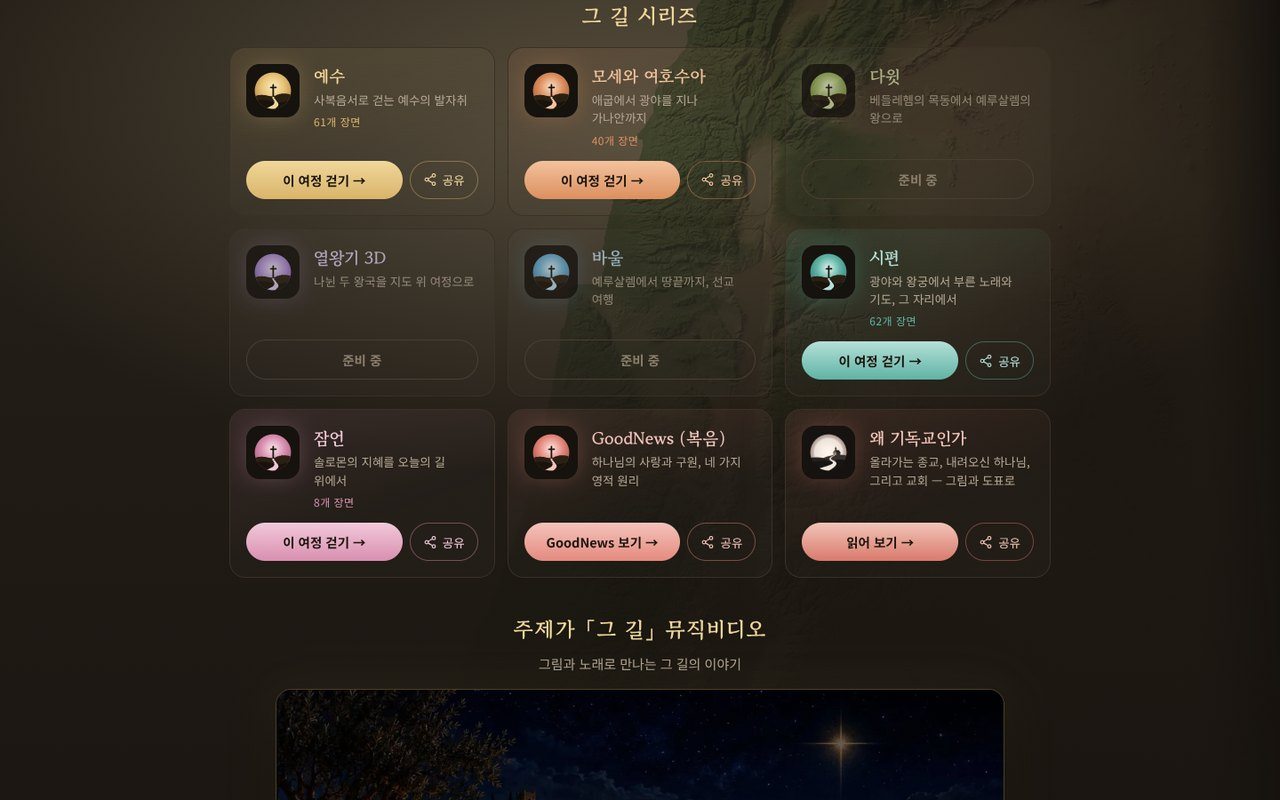
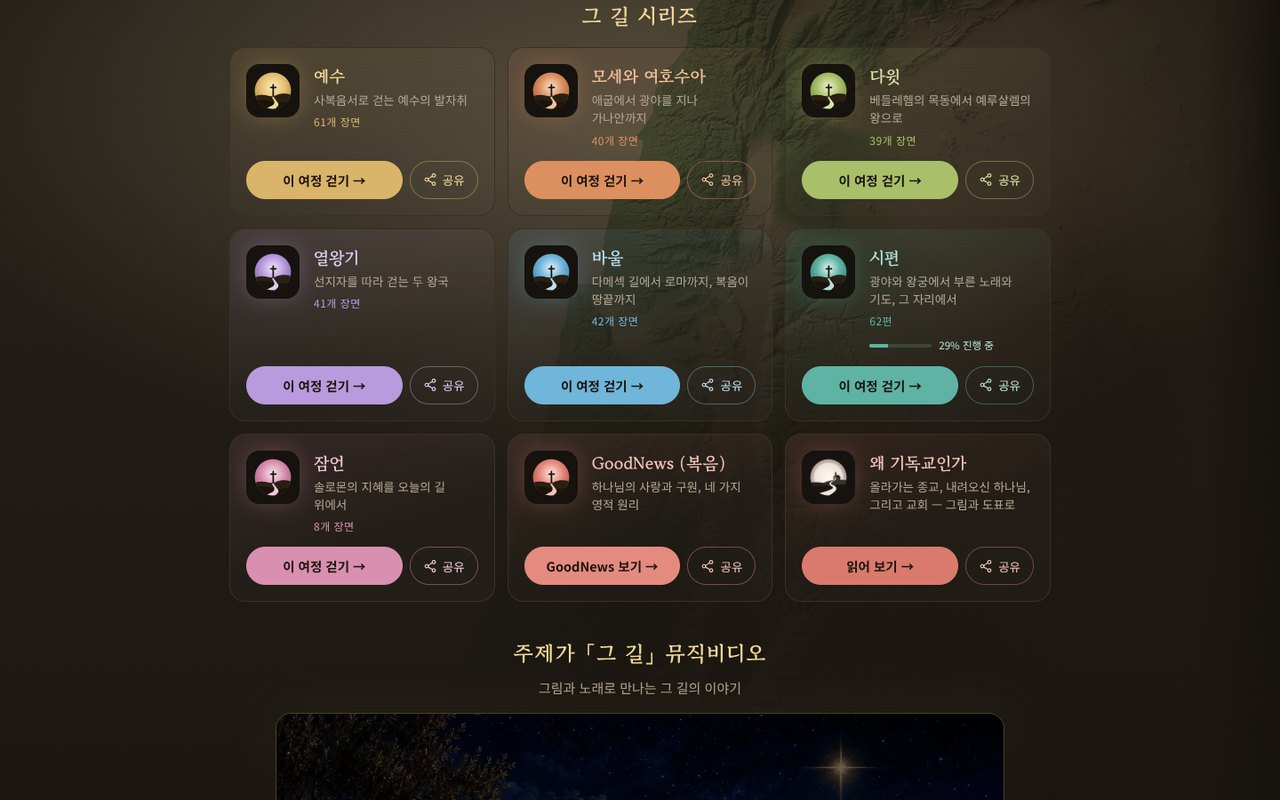
그 길 시리즈 갱신: 다윗(39)·열왕기(41)·바울(42, 서신 13편) 공개, 여덟 여정 297장면, 시대별 영역·바울 편지 탭 소개, 새 화면
Claude-Session: https://claude.ai/code/session_01ShCSMFwDxhqcMjTsEDc35E

diff --git a/public/apps/theway/index.html b/public/apps/theway/index.html
@@ -4,17 +4,17 @@
 <meta charset="UTF-8">
 <meta name="viewport" content="width=device-width,initial-scale=1">
 <title>그 길 — 성경을 걷는 3D 지도 여정 — 3D 성경 지도 여정 시리즈 | SSSOFT</title>
-<meta name="description" content="지도 위에서 걷는 성경의 길. 예수의 발자취, 모세와 여호수아, 시편, 잠언, GoodNews(복음) 다섯 여정과 '왜 기독교인가' 단원이 나왔습니다. 그 길은 성경의 이야기를 일어난 때와 장소의 순서로 엮어, 지도 위를 걸으며 만나게 하는 여정 시리즈입니다. 장면을 옮길…">
+<meta name="description" content="지도 위에서 걷는 성경의 길. 예수, 모세와 여호수아, 다윗, 열왕기, 바울, 시편, 잠언, GoodNews(복음) 여덟 여정과 '왜 기독교인가' 단원을 걷습니다. 그 길은 성경의 이야기를 일어난 때와 장소의 순서로 엮어, 지도 위를 걸으며 만나게 하는 여정 시리즈입니다.…">
 <link rel="canonical" href="https://sssoft-idea.web.app/apps/theway/">
 <meta property="og:type" content="website">
 <meta property="og:site_name" content="SSSOFT">
-<meta property="og:title" content="그 길 — 성경을 걷는 3D 지도 여정 — 지도 위에서 걷는 성경의 길. 예수의 발자취, 모세와 여호수아, 시편, 잠언, GoodNews(복음) 다섯 여정과 '왜 기독교인가' 단원이 나왔습니다">
-<meta property="og:description" content="지도 위에서 걷는 성경의 길. 예수의 발자취, 모세와 여호수아, 시편, 잠언, GoodNews(복음) 다섯 여정과 '왜 기독교인가' 단원이 나왔습니다. 그 길은 성경의 이야기를 일어난 때와 장소의 순서로 엮어, 지도 위를 걸으며 만나게 하는 여정 시리즈입니다. 장면을 옮길…">
+<meta property="og:title" content="그 길 — 성경을 걷는 3D 지도 여정 — 지도 위에서 걷는 성경의 길. 예수, 모세와 여호수아, 다윗, 열왕기, 바울, 시편, 잠언, GoodNews(복음) 여덟 여정과 '왜 기독교인가' 단원을 걷습니다">
+<meta property="og:description" content="지도 위에서 걷는 성경의 길. 예수, 모세와 여호수아, 다윗, 열왕기, 바울, 시편, 잠언, GoodNews(복음) 여덟 여정과 '왜 기독교인가' 단원을 걷습니다. 그 길은 성경의 이야기를 일어난 때와 장소의 순서로 엮어, 지도 위를 걸으며 만나게 하는 여정 시리즈입니다.…">
 <meta property="og:url" content="https://sssoft-idea.web.app/apps/theway/">
 <meta property="og:image" content="https://sssoft-idea.web.app/shots/theway-d.png">
 <meta property="og:locale" content="ko_KR">
 <meta name="twitter:card" content="summary_large_image">
-<script type="application/ld+json">{"@context":"https://schema.org","@graph":[{"@type":"SoftwareApplication","@id":"https://sssoft-idea.web.app/apps/theway/#app","name":"그 길 — 성경을 걷는 3D 지도 여정","alternateName":"THE WAY · SERIES","description":"그 길은 성경의 이야기를 일어난 때와 장소의 순서로 엮어, 지도 위를 걸으며 만나게 하는 여정 시리즈입니다. 장면을 옮길 때마다 실제 지형 위를 걸어가며 거리와 걸린 날수를 보여 주고, 도착하면 그 자리에 미니어처 3D 무대가 서서 낭독에 맞춰 인물이 움직입니다. 첫 여정 '예수의 발자취'는 사복음서를 엮어 탄생부터 승천까지 61개 장면을, '모세와 여호수아'는 애굽의 종살이에서 약속의 땅까지 40개 장면을 걷습니다. '잠언'은 지도 대신 솔로몬 때 예루살렘의 거리를 사람 눈높이로 걸으며 아버지가 아들에게 들려주는 하루 8장면과 '하루 한 장 31일 잠언'을, '시편'은 노래가 태어난 자리를 따라 62편을 걸으며 가사를 크게 띄우고 노래를 한 편씩 더해 가는 중입니다. 처음 만나는 분께는 네 장면으로 듣는 'GoodNews(복음)'와, 여러 종교를 견주며 그림과 도표로 풀어 쓴 '왜 기독교인가' 단원을 둡니다. 모두 같은 엔진으로 만들어 가입 없이 바로 쓰고 대부분 8개 언어로 볼 수 있으며(시편은 한국어), 다윗·열왕기·바울 여정을 이어서 준비하고 있습니다.","url":"https://the-way-jesus.web.app","image":"https://sssoft-idea.web.app/shots/theway-d.png","applicationCategory":"LifestyleApplication","operatingSystem":"Web","inLanguage":"ko","author":{"@id":"https://sssoft-idea.web.app/#org"},"publisher":{"@id":"https://sssoft-idea.web.app/#org"}},{"@type":"WebPage","@id":"https://sssoft-idea.web.app/apps/theway/","url":"https://sssoft-idea.web.app/apps/theway/","name":"그 길 — 성경을 걷는 3D 지도 여정 — 3D 성경 지도 여정 시리즈","description":"지도 위에서 걷는 성경의 길. 예수의 발자취, 모세와 여호수아, 시편, 잠언, GoodNews(복음) 다섯 여정과 '왜 기독교인가' 단원이 나왔습니다. 그 길은 성경의 이야기를 일어난 때와 장소의 순서로 엮어, 지도 위를 걸으며 만나게 하는 여정 시리즈입니다. 장면을 옮길…","inLanguage":"ko","isPartOf":{"@id":"https://sssoft-idea.web.app/#site"},"about":{"@id":"https://sssoft-idea.web.app/apps/theway/#app"},"primaryImageOfPage":"https://sssoft-idea.web.app/shots/theway-d.png","breadcrumb":{"@type":"BreadcrumbList","itemListElement":[{"@type":"ListItem","position":1,"name":"SSSOFT","item":"https://sssoft-idea.web.app/"},{"@type":"ListItem","position":2,"name":"프로젝트","item":"https://sssoft-idea.web.app/#work"},{"@type":"ListItem","position":3,"name":"그 길 — 성경을 걷는 3D 지도 여정","item":"https://sssoft-idea.web.app/apps/theway/"}]}},{"@type":"Organization","@id":"https://sssoft-idea.web.app/#org","name":"SSSOFT","url":"https://sssoft-idea.web.app/","logo":"https://sssoft-idea.web.app/logo-mark.svg","email":"sssoft1004@gmail.com"}]}</script>
+<script type="application/ld+json">{"@context":"https://schema.org","@graph":[{"@type":"SoftwareApplication","@id":"https://sssoft-idea.web.app/apps/theway/#app","name":"그 길 — 성경을 걷는 3D 지도 여정","alternateName":"THE WAY · SERIES","description":"그 길은 성경의 이야기를 일어난 때와 장소의 순서로 엮어, 지도 위를 걸으며 만나게 하는 여정 시리즈입니다. 장면을 옮길 때마다 실제 지형 위를 걸어가며 거리와 걸린 날수를 보여 주고, 도착하면 그 자리에 미니어처 3D 무대가 서서 낭독에 맞춰 인물이 움직입니다. 지도에는 시대마다 누가 그 땅을 다스렸는지 영역이 옅게 깔리고 장면이 넘어가면 함께 바뀝니다. 사복음서로 걷는 '예수'(61장면), 애굽에서 약속의 땅까지 '모세와 여호수아'(40), 베들레헴의 목동에서 왕이 된 '다윗'(39), 선지자를 따라 걷는 두 왕국 '열왕기'(41), 다메섹 길에서 로마까지 서신 13편을 잇는 '바울'(42)이 지도 위 여정입니다. '시편'은 노래가 태어난 자리를 따라 62편을 걸으며 가사를 크게 띄우고 노래를 한 편씩 더해 가는 중이고, '잠언'은 솔로몬 때 예루살렘의 거리를 사람 눈높이로 걷는 하루 8장면과 '하루 한 장 31일 잠언'입니다. 처음 만나는 분께는 네 장면으로 듣는 'GoodNews(복음)'와, 여러 종교를 견주며 그림과 도표로 풀어 쓴 '왜 기독교인가' 단원을 둡니다. 모두 같은 엔진으로 만들어 가입 없이 바로 쓰고, 시편을 뺀 모든 여정을 8개 언어로 볼 수 있습니다.","url":"https://the-way-jesus.web.app","image":"https://sssoft-idea.web.app/shots/theway-d.png","applicationCategory":"LifestyleApplication","operatingSystem":"Web","inLanguage":"ko","author":{"@id":"https://sssoft-idea.web.app/#org"},"publisher":{"@id":"https://sssoft-idea.web.app/#org"}},{"@type":"WebPage","@id":"https://sssoft-idea.web.app/apps/theway/","url":"https://sssoft-idea.web.app/apps/theway/","name":"그 길 — 성경을 걷는 3D 지도 여정 — 3D 성경 지도 여정 시리즈","description":"지도 위에서 걷는 성경의 길. 예수, 모세와 여호수아, 다윗, 열왕기, 바울, 시편, 잠언, GoodNews(복음) 여덟 여정과 '왜 기독교인가' 단원을 걷습니다. 그 길은 성경의 이야기를 일어난 때와 장소의 순서로 엮어, 지도 위를 걸으며 만나게 하는 여정 시리즈입니다.…","inLanguage":"ko","isPartOf":{"@id":"https://sssoft-idea.web.app/#site"},"about":{"@id":"https://sssoft-idea.web.app/apps/theway/#app"},"primaryImageOfPage":"https://sssoft-idea.web.app/shots/theway-d.png","breadcrumb":{"@type":"BreadcrumbList","itemListElement":[{"@type":"ListItem","position":1,"name":"SSSOFT","item":"https://sssoft-idea.web.app/"},{"@type":"ListItem","position":2,"name":"프로젝트","item":"https://sssoft-idea.web.app/#work"},{"@type":"ListItem","position":3,"name":"그 길 — 성경을 걷는 3D 지도 여정","item":"https://sssoft-idea.web.app/apps/theway/"}]}},{"@type":"Organization","@id":"https://sssoft-idea.web.app/#org","name":"SSSOFT","url":"https://sssoft-idea.web.app/","logo":"https://sssoft-idea.web.app/logo-mark.svg","email":"sssoft1004@gmail.com"}]}</script>
 <link rel="icon" href="/favicon.ico" sizes="48x48">
 <link rel="icon" href="/logo-mark.svg" type="image/svg+xml">
 <link rel="apple-touch-icon" href="/apple-touch-icon.png">
@@ -326,9 +326,9 @@ h1,h2,h3,.hero h1,.sec-head h2,.about h2,.process h2,.reeltxt h2,.contact h2,.bo
      <div>
        <div class="eyebrow" style="color:#8a6420">3D 성경 지도 여정 시리즈 · THE WAY · SERIES</div>
        <h1>그 길 — 성경을 걷는 3D 지도 여정</h1>
-       <div class="tl">지도 위에서 걷는 성경의 길. 예수의 발자취, 모세와 여호수아, 시편, 잠언, GoodNews(복음) 다섯 여정과 '왜 기독교인가' 단원이 나왔습니다</div>
+       <div class="tl">지도 위에서 걷는 성경의 길. 예수, 모세와 여호수아, 다윗, 열왕기, 바울, 시편, 잠언, GoodNews(복음) 여덟 여정과 '왜 기독교인가' 단원을 걷습니다</div>
        <div class="sup"><span>✓ PC</span><span>✓ 태블릿</span><span>✓ 모바일</span></div>
-       <p class="ov">그 길은 성경의 이야기를 일어난 때와 장소의 순서로 엮어, 지도 위를 걸으며 만나게 하는 여정 시리즈입니다. 장면을 옮길 때마다 실제 지형 위를 걸어가며 거리와 걸린 날수를 보여 주고, 도착하면 그 자리에 미니어처 3D 무대가 서서 낭독에 맞춰 인물이 움직입니다. 첫 여정 '예수의 발자취'는 사복음서를 엮어 탄생부터 승천까지 61개 장면을, '모세와 여호수아'는 애굽의 종살이에서 약속의 땅까지 40개 장면을 걷습니다. '잠언'은 지도 대신 솔로몬 때 예루살렘의 거리를 사람 눈높이로 걸으며 아버지가 아들에게 들려주는 하루 8장면과 '하루 한 장 31일 잠언'을, '시편'은 노래가 태어난 자리를 따라 62편을 걸으며 가사를 크게 띄우고 노래를 한 편씩 더해 가는 중입니다. 처음 만나는 분께는 네 장면으로 듣는 'GoodNews(복음)'와, 여러 종교를 견주며 그림과 도표로 풀어 쓴 '왜 기독교인가' 단원을 둡니다. 모두 같은 엔진으로 만들어 가입 없이 바로 쓰고 대부분 8개 언어로 볼 수 있으며(시편은 한국어), 다윗·열왕기·바울 여정을 이어서 준비하고 있습니다.</p>
+       <p class="ov">그 길은 성경의 이야기를 일어난 때와 장소의 순서로 엮어, 지도 위를 걸으며 만나게 하는 여정 시리즈입니다. 장면을 옮길 때마다 실제 지형 위를 걸어가며 거리와 걸린 날수를 보여 주고, 도착하면 그 자리에 미니어처 3D 무대가 서서 낭독에 맞춰 인물이 움직입니다. 지도에는 시대마다 누가 그 땅을 다스렸는지 영역이 옅게 깔리고 장면이 넘어가면 함께 바뀝니다. 사복음서로 걷는 '예수'(61장면), 애굽에서 약속의 땅까지 '모세와 여호수아'(40), 베들레헴의 목동에서 왕이 된 '다윗'(39), 선지자를 따라 걷는 두 왕국 '열왕기'(41), 다메섹 길에서 로마까지 서신 13편을 잇는 '바울'(42)이 지도 위 여정입니다. '시편'은 노래가 태어난 자리를 따라 62편을 걸으며 가사를 크게 띄우고 노래를 한 편씩 더해 가는 중이고, '잠언'은 솔로몬 때 예루살렘의 거리를 사람 눈높이로 걷는 하루 8장면과 '하루 한 장 31일 잠언'입니다. 처음 만나는 분께는 네 장면으로 듣는 'GoodNews(복음)'와, 여러 종교를 견주며 그림과 도표로 풀어 쓴 '왜 기독교인가' 단원을 둡니다. 모두 같은 엔진으로 만들어 가입 없이 바로 쓰고, 시편을 뺀 모든 여정을 8개 언어로 볼 수 있습니다.</p>
        <a class="btn" style="background:#8a6420" href="https://the-way-jesus.web.app" target="_blank" rel="noopener">서비스 바로가기 →</a>
        <a class="btn play free" href="https://the-way-jesus.web.app" target="_blank" rel="noopener">FREE</a>
        
@@ -340,14 +340,14 @@ h1,h2,h3,.hero h1,.sec-head h2,.about h2,.process h2,.reeltxt h2,.contact h2,.bo
    <div class="dbody">
      
      
-     <div class="nums"><div><b>5편</b><small>공개된 여정 + '왜 기독교인가' 단원</small></div><div><b>175개</b><small>장면 (예수 61 · 모세 40 · 시편 62 · 잠언 8 · 복음 4)</small></div><div><b>31일</b><small>하루 한 장 잠언</small></div><div><b>8개</b><small>지원 언어 (시편은 한국어)</small></div></div>
+     <div class="nums"><div><b>8편</b><small>공개된 여정 + '왜 기독교인가' 단원</small></div><div><b>297개</b><small>장면 (예수 61 · 모세 40 · 다윗 39 · 열왕기 41 · 바울 42 · 시편 62 · 잠언 8 · 복음 4)</small></div><div><b>13편</b><small>바울 여정의 편지 탭에 잇는 바울 서신</small></div><div><b>8개</b><small>지원 언어 (시편은 한국어)</small></div></div>
      
      
-     <div class="nextx"><h5>그 길 시리즈</h5><p>같은 엔진으로 성경의 여정을 하나씩 더해 갑니다. 공개된 여정은 바로 걸을 수 있고, 준비 중인 여정은 후원을 기다립니다. 한 여정을 후원해 주신 교회와 단체는 그 여정의 첫 화면과 마지막 화면에 함께 기록됩니다.</p><div class="ng"><a class="ready" href="https://the-way-jesus.web.app/jesus/" target="_blank" rel="noopener"><i>공개</i><b>예수의 발자취</b><span>사복음서로 걷는 탄생부터 승천까지 61장면</span><em>여정 걷기 →</em></a><a class="ready" href="https://the-way-jesus.web.app/moses/" target="_blank" rel="noopener"><i>공개</i><b>모세와 여호수아</b><span>애굽에서 광야를 지나 가나안까지 40장면</span><em>여정 걷기 →</em></a><a class="ready" href="https://the-way-jesus.web.app/psalms/" target="_blank" rel="noopener"><i>공개</i><b>시편</b><span>광야와 왕궁에서 부른 노래와 기도, 그 자리에서. 62편, 노래를 한 편씩 더하는 중 (한국어)</span><em>여정 걷기 →</em></a><a class="ready" href="https://the-way-jesus.web.app/proverbs/" target="_blank" rel="noopener"><i>공개</i><b>잠언</b><span>솔로몬의 지혜를 오늘의 길 위에서. 거리를 걷는 하루 8장면과 하루 한 장 31일</span><em>여정 걷기 →</em></a><a class="ready" href="https://the-way-jesus.web.app/goodnews/" target="_blank" rel="noopener"><i>공개</i><b>GoodNews (복음)</b><span>하나님의 사랑과 구원, 네 가지 영적 원리. 처음 만나는 분께 네 장면으로</span><em>GoodNews 보기 →</em></a><a class="ready" href="https://the-way-jesus.web.app/why.html" target="_blank" rel="noopener"><i>공개</i><b>왜 기독교인가</b><span>올라가는 종교, 내려오신 하나님, 그리고 교회. 그림과 도표로 읽는 단원</span><em>읽어 보기 →</em></a><div><i>준비 중</i><b>다윗</b><span>베들레헴의 목동에서 예루살렘의 왕으로</span></div><div><i>준비 중</i><b>열왕기 3D</b><span>나뉜 두 왕국을 지도 위 여정으로</span></div><div><i>준비 중</i><b>바울</b><span>예루살렘에서 땅끝까지, 선교 여행</span></div></div><div class="nb"><a href="https://open.kakao.com/o/ssPDUnSi" target="_blank" rel="noopener">후원 문의 (카카오톡)</a><a class="ml" href="mailto:sssoft1004@gmail.com?subject=%EA%B7%B8%20%EA%B8%B8%20%E2%80%94%20%EC%84%B1%EA%B2%BD%EC%9D%84%20%EA%B1%B7%EB%8A%94%203D%20%EC%A7%80%EB%8F%84%20%EC%97%AC%EC%A0%95%20%EB%8B%A4%EC%9D%8C%20%EC%97%AC%EC%A0%95%20%ED%9B%84%EC%9B%90%20%EB%AC%B8%EC%9D%98">메일로 문의</a></div></div>
+     <div class="nextx"><h5>그 길 시리즈</h5><p>같은 엔진으로 성경의 여정을 하나씩 더해 왔고, 지금 여덟 여정과 한 단원이 모두 열려 있습니다. 누르면 그 여정을 바로 걷습니다. 앞으로의 여정을 후원해 주실 교회와 단체는 문의해 주세요. 후원한 여정의 첫 화면과 마지막 화면에 함께 기록됩니다.</p><div class="ng"><a class="ready" href="https://the-way-jesus.web.app/jesus/" target="_blank" rel="noopener"><i>공개</i><b>예수의 발자취</b><span>사복음서로 걷는 탄생부터 승천까지 61장면</span><em>여정 걷기 →</em></a><a class="ready" href="https://the-way-jesus.web.app/moses/" target="_blank" rel="noopener"><i>공개</i><b>모세와 여호수아</b><span>애굽에서 광야를 지나 가나안까지 40장면</span><em>여정 걷기 →</em></a><a class="ready" href="https://the-way-jesus.web.app/david/" target="_blank" rel="noopener"><i>공개</i><b>다윗</b><span>베들레헴의 목동에서 예루살렘의 왕으로 39장면</span><em>여정 걷기 →</em></a><a class="ready" href="https://the-way-jesus.web.app/kings/" target="_blank" rel="noopener"><i>공개</i><b>열왕기</b><span>선지자를 따라 걷는 두 왕국 41장면</span><em>여정 걷기 →</em></a><a class="ready" href="https://the-way-jesus.web.app/paul/" target="_blank" rel="noopener"><i>공개</i><b>바울</b><span>다메섹 길에서 로마까지, 복음이 땅끝까지 42장면과 서신 13편</span><em>여정 걷기 →</em></a><a class="ready" href="https://the-way-jesus.web.app/psalms/" target="_blank" rel="noopener"><i>공개</i><b>시편</b><span>광야와 왕궁에서 부른 노래와 기도, 그 자리에서. 62편, 노래를 한 편씩 더하는 중 (한국어)</span><em>여정 걷기 →</em></a><a class="ready" href="https://the-way-jesus.web.app/proverbs/" target="_blank" rel="noopener"><i>공개</i><b>잠언</b><span>솔로몬의 지혜를 오늘의 길 위에서. 거리를 걷는 하루 8장면과 하루 한 장 31일</span><em>여정 걷기 →</em></a><a class="ready" href="https://the-way-jesus.web.app/goodnews/" target="_blank" rel="noopener"><i>공개</i><b>GoodNews (복음)</b><span>하나님의 사랑과 구원, 네 가지 영적 원리. 처음 만나는 분께 네 장면으로</span><em>GoodNews 보기 →</em></a><a class="ready" href="https://the-way-jesus.web.app/why.html" target="_blank" rel="noopener"><i>공개</i><b>왜 기독교인가</b><span>올라가는 종교, 내려오신 하나님, 그리고 교회. 그림과 도표로 읽는 단원</span><em>읽어 보기 →</em></a></div><div class="nb"><a href="https://open.kakao.com/o/ssPDUnSi" target="_blank" rel="noopener">후원 문의 (카카오톡)</a><a class="ml" href="mailto:sssoft1004@gmail.com?subject=%EA%B7%B8%20%EA%B8%B8%20%E2%80%94%20%EC%84%B1%EA%B2%BD%EC%9D%84%20%EA%B1%B7%EB%8A%94%203D%20%EC%A7%80%EB%8F%84%20%EC%97%AC%EC%A0%95%20%EB%8B%A4%EC%9D%8C%20%EC%97%AC%EC%A0%95%20%ED%9B%84%EC%9B%90%20%EB%AC%B8%EC%9D%98">메일로 문의</a></div></div>
      <h4>↓ 소책자 「왜 기독교인가」 내려받기</h4><p class="usenote">그 길의 '왜 기독교인가' 단원을 A5 소책자(36쪽)로 엮었습니다. 휴대폰으로 보내거나 인쇄해서 나눠 주세요.</p><div class="dls"><a href="https://the-way-jesus.web.app/assets/why-booklet.pdf?v=1107b" target="_blank" rel="noopener" download><b>보기용 PDF</b><span>휴대폰으로 보내거나 집에서 인쇄</span></a><a href="https://the-way-jesus.web.app/assets/why-booklet-print.pdf?v=1107b" target="_blank" rel="noopener" download><b>인쇄소용 PDF</b><span>3mm 재단 여유와 재단선 포함</span></a></div>
      <h4>★ 대표 기능</h4>
-     <div class="flag"><div><em>01</em><b>성경을 걷는 여정 시리즈</b><span>예수의 발자취(61장면), 모세와 여호수아(40), 시편(62편), 잠언(8장면 + 31일), GoodNews(4장면)가 나왔고 다윗·열왕기·바울로 이어집니다. 첫 화면에서 여정을 고릅니다.</span></div><div><em>02</em><b>낭독에 맞춰 움직이는 3D 무대</b><span>장소 핀 위에 세운 미니어처 무대에서 문장이 읽힐 때마다 인물이 걸어 들어오고 말하고 고개를 듭니다. 밤은 남빛, 폭풍은 구름 그림자, 새벽은 금빛으로 지도가 물듭니다.</span></div><div><em>03</em><b>실제 고도로 만든 3D 지형</b><span>인공위성 고도 자료로 갈릴리·유대·애굽과 시내 반도·네게브의 높낮이를 입체로 보여 줍니다. 예루살렘은 도성까지 들어가 3D 도성이 나타납니다.</span></div><div><em>04</em><b>자동 여정 — 오디오북처럼</b><span>자동 여정을 켜면 걷기, 도착, 낭독, 다음 장소가 저절로 이어지고 장면에 맞는 배경음악이 깔립니다.</span></div><div><em>05</em><b>장면마다 명화와 말씀</b><span>제임스 티소의 신약·구약 연작을 중심으로 장면마다 명화를 싣고, 예수의 말씀 169개와 하나님의 말씀 54개를 여정 순서로 모아 찾습니다.</span></div><div><em>06</em><b>고통은 그리지 않는 연출</b><span>십자가는 멀리 보이는 윤곽으로만, 악한 존재는 형체 없는 실루엣으로만 그려 어린이와 함께 보아도 괜찮습니다.</span></div></div>
-     <h4>▣ 미리보기</h4><div class="gal wide "><figure><a href="/gallery/theway-series.jpg" target="_blank" rel="noopener"><img src="/gallery/theway-series.jpg" alt="그 길 — 성경을 걷는 3D 지도 여정 첫 화면의 그 길 시리즈: 여정을 골라 걷기" loading="lazy"></a><figcaption>첫 화면의 그 길 시리즈: 여정을 골라 걷기</figcaption></figure><figure><a href="/gallery/theway-phones.jpg" target="_blank" rel="noopener"><img src="/gallery/theway-phones.jpg" alt="그 길 — 성경을 걷는 3D 지도 여정 예수의 발자취: 갈릴리 바다 · 산 위의 가르침 · 종려가지 행렬 · 디베랴 바닷가" loading="lazy"></a><figcaption>예수의 발자취: 갈릴리 바다 · 산 위의 가르침 · 종려가지 행렬 · 디베랴 바닷가</figcaption></figure><figure><a href="/gallery/theway-moses-phones.jpg" target="_blank" rel="noopener"><img src="/gallery/theway-moses-phones.jpg" alt="그 길 — 성경을 걷는 3D 지도 여정 모세와 여호수아: 바다가 갈라지다 · 산에 내려오신 하나님 · 라합의 붉은 줄 · 느보산" loading="lazy"></a><figcaption>모세와 여호수아: 바다가 갈라지다 · 산에 내려오신 하나님 · 라합의 붉은 줄 · 느보산</figcaption></figure><figure><a href="/gallery/theway-proverbs.jpg" target="_blank" rel="noopener"><img src="/gallery/theway-proverbs.jpg" alt="그 길 — 성경을 걷는 3D 지도 여정 잠언: 사람 눈높이로 걷는 솔로몬 때 예루살렘 거리, 성문에서 부르는 지혜" loading="lazy"></a><figcaption>잠언: 사람 눈높이로 걷는 솔로몬 때 예루살렘 거리, 성문에서 부르는 지혜</figcaption></figure><figure><a href="/gallery/theway-psalms.jpg" target="_blank" rel="noopener"><img src="/gallery/theway-psalms.jpg" alt="그 길 — 성경을 걷는 3D 지도 여정 시편: 노래가 태어난 자리를 따라 걷기" loading="lazy"></a><figcaption>시편: 노래가 태어난 자리를 따라 걷기</figcaption></figure><figure><a href="/gallery/theway-goodnews.jpg" target="_blank" rel="noopener"><img src="/gallery/theway-goodnews.jpg" alt="그 길 — 성경을 걷는 3D 지도 여정 GoodNews (복음): 하나님의 사랑에서 시작하는 네 장면" loading="lazy"></a><figcaption>GoodNews (복음): 하나님의 사랑에서 시작하는 네 장면</figcaption></figure><figure><a href="/gallery/theway-why.jpg" target="_blank" rel="noopener"><img src="/gallery/theway-why.jpg" alt="그 길 — 성경을 걷는 3D 지도 여정 왜 기독교인가: 그림과 도표로 읽는 단원" loading="lazy"></a><figcaption>왜 기독교인가: 그림과 도표로 읽는 단원</figcaption></figure><figure><a href="/gallery/theway-jerusalem.jpg" target="_blank" rel="noopener"><img src="/gallery/theway-jerusalem.jpg" alt="그 길 — 성경을 걷는 3D 지도 여정 예수의 발자취: 예루살렘 3D 도성과 감람산의 종려가지 행렬" loading="lazy"></a><figcaption>예수의 발자취: 예루살렘 3D 도성과 감람산의 종려가지 행렬</figcaption></figure><figure><a href="/gallery/theway-moses-sinai.jpg" target="_blank" rel="noopener"><img src="/gallery/theway-moses-sinai.jpg" alt="그 길 — 성경을 걷는 3D 지도 여정 모세와 여호수아: 시내산, 산에 내려오신 하나님" loading="lazy"></a><figcaption>모세와 여호수아: 시내산, 산에 내려오신 하나님</figcaption></figure><figure><a href="/gallery/theway-3d.jpg" target="_blank" rel="noopener"><img src="/gallery/theway-3d.jpg" alt="그 길 — 성경을 걷는 3D 지도 여정 3D 지형: 여리고와 요단 골짜기" loading="lazy"></a><figcaption>3D 지형: 여리고와 요단 골짜기</figcaption></figure><figure><a href="/gallery/theway-moses-3d.jpg" target="_blank" rel="noopener"><img src="/gallery/theway-moses-3d.jpg" alt="그 길 — 성경을 걷는 3D 지도 여정 3D 지형: 시내산과 광야" loading="lazy"></a><figcaption>3D 지형: 시내산과 광야</figcaption></figure><figure><a href="/gallery/theway-moses-nebo.jpg" target="_blank" rel="noopener"><img src="/gallery/theway-moses-nebo.jpg" alt="그 길 — 성경을 걷는 3D 지도 여정 모세와 여호수아: 느보산에서 바라본 약속의 땅" loading="lazy"></a><figcaption>모세와 여호수아: 느보산에서 바라본 약속의 땅</figcaption></figure><figure><a href="/gallery/theway-harmony.jpg" target="_blank" rel="noopener"><img src="/gallery/theway-harmony.jpg" alt="그 길 — 성경을 걷는 3D 지도 여정 예수의 발자취: 사복음서 대조표" loading="lazy"></a><figcaption>예수의 발자취: 사복음서 대조표</figcaption></figure><figure><a href="/gallery/theway-words.jpg" target="_blank" rel="noopener"><img src="/gallery/theway-words.jpg" alt="그 길 — 성경을 걷는 3D 지도 여정 그분의 말씀: 말씀 모음과 검색" loading="lazy"></a><figcaption>그분의 말씀: 말씀 모음과 검색</figcaption></figure></div>
+     <div class="flag"><div><em>01</em><b>성경을 걷는 여덟 여정</b><span>예수(61장면), 모세와 여호수아(40), 다윗(39), 열왕기(41), 바울(42), 시편(62편), 잠언(8장면 + 31일), GoodNews(4)가 모두 열렸습니다. 첫 화면에서 여정을 고릅니다.</span></div><div><em>02</em><b>낭독에 맞춰 움직이는 3D 무대</b><span>장소 핀 위에 세운 미니어처 무대에서 문장이 읽힐 때마다 인물이 걸어 들어오고 말하고 고개를 듭니다. 밤은 남빛, 폭풍은 구름 그림자, 새벽은 금빛으로 지도가 물듭니다.</span></div><div><em>03</em><b>실제 고도로 만든 3D 지형</b><span>인공위성 고도 자료로 갈릴리·유대·애굽과 시내 반도·네게브의 높낮이를 입체로 보여 줍니다. 예루살렘은 도성까지 들어가 3D 도성이 나타납니다.</span></div><div><em>04</em><b>자동 여정 — 오디오북처럼</b><span>자동 여정을 켜면 걷기, 도착, 낭독, 다음 장소가 저절로 이어지고 장면에 맞는 배경음악이 깔립니다.</span></div><div><em>05</em><b>장면마다 명화와 말씀</b><span>제임스 티소의 신약·구약 연작을 중심으로 장면마다 명화를 싣고, 예수의 말씀 169개와 하나님의 말씀 54개를 여정 순서로 모아 찾습니다.</span></div><div><em>06</em><b>고통은 그리지 않는 연출</b><span>십자가는 멀리 보이는 윤곽으로만, 악한 존재는 형체 없는 실루엣으로만 그려 어린이와 함께 보아도 괜찮습니다.</span></div></div>
+     <h4>▣ 미리보기</h4><div class="gal wide "><figure><a href="/gallery/theway-series.jpg" target="_blank" rel="noopener"><img src="/gallery/theway-series.jpg" alt="그 길 — 성경을 걷는 3D 지도 여정 첫 화면의 그 길 시리즈: 여정을 골라 걷기" loading="lazy"></a><figcaption>첫 화면의 그 길 시리즈: 여정을 골라 걷기</figcaption></figure><figure><a href="/gallery/theway-phones.jpg" target="_blank" rel="noopener"><img src="/gallery/theway-phones.jpg" alt="그 길 — 성경을 걷는 3D 지도 여정 예수의 발자취: 갈릴리 바다 · 산 위의 가르침 · 종려가지 행렬 · 디베랴 바닷가" loading="lazy"></a><figcaption>예수의 발자취: 갈릴리 바다 · 산 위의 가르침 · 종려가지 행렬 · 디베랴 바닷가</figcaption></figure><figure><a href="/gallery/theway-moses-phones.jpg" target="_blank" rel="noopener"><img src="/gallery/theway-moses-phones.jpg" alt="그 길 — 성경을 걷는 3D 지도 여정 모세와 여호수아: 바다가 갈라지다 · 산에 내려오신 하나님 · 라합의 붉은 줄 · 느보산" loading="lazy"></a><figcaption>모세와 여호수아: 바다가 갈라지다 · 산에 내려오신 하나님 · 라합의 붉은 줄 · 느보산</figcaption></figure><figure><a href="/gallery/theway-dkp-phones.jpg" target="_blank" rel="noopener"><img src="/gallery/theway-dkp-phones.jpg" alt="그 길 — 성경을 걷는 3D 지도 여정 다윗 · 열왕기 · 바울: 놉의 진설병과 골리앗의 칼 · 손만 한 구름 · 강가의 기도처, 루디아" loading="lazy"></a><figcaption>다윗 · 열왕기 · 바울: 놉의 진설병과 골리앗의 칼 · 손만 한 구름 · 강가의 기도처, 루디아</figcaption></figure><figure><a href="/gallery/theway-david.jpg" target="_blank" rel="noopener"><img src="/gallery/theway-david.jpg" alt="그 길 — 성경을 걷는 3D 지도 여정 다윗: 엔게디 굴의 옷자락" loading="lazy"></a><figcaption>다윗: 엔게디 굴의 옷자락</figcaption></figure><figure><a href="/gallery/theway-kings.jpg" target="_blank" rel="noopener"><img src="/gallery/theway-kings.jpg" alt="그 길 — 성경을 걷는 3D 지도 여정 열왕기: 도단을 둘러싼 불말과 불병거 (시대별 영역이 지도에 깔림)" loading="lazy"></a><figcaption>열왕기: 도단을 둘러싼 불말과 불병거 (시대별 영역이 지도에 깔림)</figcaption></figure><figure><a href="/gallery/theway-paul.jpg" target="_blank" rel="noopener"><img src="/gallery/theway-paul.jpg" alt="그 길 — 성경을 걷는 3D 지도 여정 바울: 두 번째 여행, 빌립보 강가의 기도처" loading="lazy"></a><figcaption>바울: 두 번째 여행, 빌립보 강가의 기도처</figcaption></figure><figure><a href="/gallery/theway-proverbs.jpg" target="_blank" rel="noopener"><img src="/gallery/theway-proverbs.jpg" alt="그 길 — 성경을 걷는 3D 지도 여정 잠언: 사람 눈높이로 걷는 솔로몬 때 예루살렘 거리, 성문에서 부르는 지혜" loading="lazy"></a><figcaption>잠언: 사람 눈높이로 걷는 솔로몬 때 예루살렘 거리, 성문에서 부르는 지혜</figcaption></figure><figure><a href="/gallery/theway-psalms.jpg" target="_blank" rel="noopener"><img src="/gallery/theway-psalms.jpg" alt="그 길 — 성경을 걷는 3D 지도 여정 시편: 노래가 태어난 자리를 따라 걷기" loading="lazy"></a><figcaption>시편: 노래가 태어난 자리를 따라 걷기</figcaption></figure><figure><a href="/gallery/theway-goodnews.jpg" target="_blank" rel="noopener"><img src="/gallery/theway-goodnews.jpg" alt="그 길 — 성경을 걷는 3D 지도 여정 GoodNews (복음): 하나님의 사랑에서 시작하는 네 장면" loading="lazy"></a><figcaption>GoodNews (복음): 하나님의 사랑에서 시작하는 네 장면</figcaption></figure><figure><a href="/gallery/theway-why.jpg" target="_blank" rel="noopener"><img src="/gallery/theway-why.jpg" alt="그 길 — 성경을 걷는 3D 지도 여정 왜 기독교인가: 그림과 도표로 읽는 단원" loading="lazy"></a><figcaption>왜 기독교인가: 그림과 도표로 읽는 단원</figcaption></figure><figure><a href="/gallery/theway-jerusalem.jpg" target="_blank" rel="noopener"><img src="/gallery/theway-jerusalem.jpg" alt="그 길 — 성경을 걷는 3D 지도 여정 예수의 발자취: 예루살렘 3D 도성과 감람산의 종려가지 행렬" loading="lazy"></a><figcaption>예수의 발자취: 예루살렘 3D 도성과 감람산의 종려가지 행렬</figcaption></figure><figure><a href="/gallery/theway-moses-sinai.jpg" target="_blank" rel="noopener"><img src="/gallery/theway-moses-sinai.jpg" alt="그 길 — 성경을 걷는 3D 지도 여정 모세와 여호수아: 시내산, 산에 내려오신 하나님" loading="lazy"></a><figcaption>모세와 여호수아: 시내산, 산에 내려오신 하나님</figcaption></figure><figure><a href="/gallery/theway-3d.jpg" target="_blank" rel="noopener"><img src="/gallery/theway-3d.jpg" alt="그 길 — 성경을 걷는 3D 지도 여정 3D 지형: 여리고와 요단 골짜기" loading="lazy"></a><figcaption>3D 지형: 여리고와 요단 골짜기</figcaption></figure><figure><a href="/gallery/theway-harmony.jpg" target="_blank" rel="noopener"><img src="/gallery/theway-harmony.jpg" alt="그 길 — 성경을 걷는 3D 지도 여정 예수의 발자취: 사복음서 대조표" loading="lazy"></a><figcaption>예수의 발자취: 사복음서 대조표</figcaption></figure></div>
      <h4>◆ 처음부터 끝까지, 빠짐없는 구성</h4>
      <div class="stages"><details class="stg" open>
        <summary><i>1</i><div><b>여정</b><span>지도 위를 걸으며 장면을 만나기</span></div><small>7</small></summary>
@@ -356,21 +356,21 @@ h1,h2,h3,.hero h1,.sec-head h2,.about h2,.process h2,.reeltxt h2,.contact h2,.bo
        <summary><i>2</i><div><b>장면 카드</b><span>한 장면을 깊이 읽기</span></div><small>6</small></summary>
        <div class="feats"><div class="feat"><b>명화</b><span>장면마다 명화를 싣고 크게 볼 수 있습니다. 제임스 티소의 「그리스도의 생애」와 구약 연작을 중심으로, 렘브란트·보티첼리·푸생 등의 그림도 있습니다.</span></div><div class="feat"><b>이야기</b><span>본문에 충실하게, 본문에 없는 사실은 지어내지 않고 그날의 풍경과 빛, 소리만 덧입힌 재구성 이야기입니다.</span></div><div class="feat"><b>본문</b><span>장면의 핵심 말씀을 장·절과 함께 모으고, 말씀 하나씩 들을 수 있습니다.</span></div><div class="feat"><b>비교</b><span>예수 여정은 네 복음서 가운데 어느 책이 이 장면을 기록했는지 장·절을 나란히 보여 줍니다.</span></div><div class="feat"><b>알고 가기</b><span>역사·지리 배경을 짧게 정리합니다.</span></div><div class="feat"><b>묵상 질문</b><span>오늘의 삶에 비추어 볼 물음을 장면마다 하나씩 둡니다.</span></div></div>
      </details><details class="stg" >
-       <summary><i>3</i><div><b>3D 무대·지형</b><span>보이는 성경</span></div><small>6</small></summary>
-       <div class="feats"><div class="feat"><b>미니어처 무대</b><span>지도 축척과 상관없이 화면에서 늘 알아볼 크기로 그려 '여기서 이런 일이 있었다'를 알려 줍니다.</span></div><div class="feat"><b>낭독 동기화</b><span>문장마다 인물이 걷고, 말하고, 무릎 꿇고, 말하는 사람 쪽을 바라봅니다.</span></div><div class="feat"><b>장면별 빛</b><span>밤은 남빛, 폭풍은 구름 그림자, 부활의 새벽은 금빛으로 지도 전체를 물들입니다.</span></div><div class="feat"><b>3D 지형</b><span>높이를 1.8배로 살려 골짜기와 산등성이가 보이게 하고, 끌기·확대·돌리기와 두 손가락 기울이기를 지원합니다. 모세와 여호수아 여정에는 시내 반도와 네게브를 더했습니다.</span></div><div class="feat"><b>3D 예루살렘</b><span>도성까지 확대하면 성벽과 성전이 있는 3D 도성 그림이 깔립니다.</span></div><div class="feat"><b>애굽 표지</b><span>애굽으로 피하는 장면에는 기자 피라미드, 파로스 등대, 헬리오폴리스를 세웠습니다.</span></div></div>
+       <summary><i>3</i><div><b>3D 무대·지형</b><span>보이는 성경</span></div><small>7</small></summary>
+       <div class="feats"><div class="feat"><b>미니어처 무대</b><span>지도 축척과 상관없이 화면에서 늘 알아볼 크기로 그려 '여기서 이런 일이 있었다'를 알려 줍니다.</span></div><div class="feat"><b>낭독 동기화</b><span>문장마다 인물이 걷고, 말하고, 무릎 꿇고, 말하는 사람 쪽을 바라봅니다.</span></div><div class="feat"><b>장면별 빛</b><span>밤은 남빛, 폭풍은 구름 그림자, 부활의 새벽은 금빛으로 지도 전체를 물들입니다.</span></div><div class="feat"><b>3D 지형</b><span>높이를 1.8배로 살려 골짜기와 산등성이가 보이게 하고, 끌기·확대·돌리기와 두 손가락 기울이기를 지원합니다. 모세와 여호수아 여정에는 시내 반도와 네게브를 더했습니다.</span></div><div class="feat"><b>3D 예루살렘</b><span>도성까지 확대하면 성벽과 성전이 있는 3D 도성 그림이 깔립니다.</span></div><div class="feat"><b>애굽 표지</b><span>애굽으로 피하는 장면에는 기자 피라미드, 파로스 등대, 헬리오폴리스를 세웠습니다.</span></div><div class="feat"><b>시대별 영역</b><span>시대마다 누가 그 땅을 다스렸는지 지도에 옅은 색과 점선으로 깔고, 장면이 넘어가 시대가 바뀌면 서서히 바꿉니다.</span></div></div>
      </details><details class="stg" >
        <summary><i>4</i><div><b>듣기</b><span>틀어 두고 듣는 복음서</span></div><small>6</small></summary>
        <div class="feats"><div class="feat"><b>녹음 낭독</b><span>예수 여정은 한국어를 녹음된 목소리로 읽고, 다른 언어와 여정은 기기의 목소리로 읽습니다.</span></div><div class="feat"><b>말씀은 다른 목소리</b><span>예수의 말씀은 해설과 다른 목소리로 들려 구분됩니다.</span></div><div class="feat"><b>자막</b><span>컴퓨터에서는 지도 아래에 읽는 문장이 자막으로 뜹니다.</span></div><div class="feat"><b>자동 여정</b><span>한 장면을 다 읽으면 저절로 다음 장소로 걸어가 이어 읽습니다.</span></div><div class="feat"><b>빠르기</b><span>0.85배부터 1.3배까지 고릅니다.</span></div><div class="feat"><b>여정마다 배경음악</b><span>여정마다 장면 분위기에 맞춘 배경음악이 낭독 밑에 깔립니다 (예수 17곡 · 모세와 여호수아 19곡).</span></div></div>
      </details><details class="stg" >
-       <summary><i>5</i><div><b>말씀·대조표·퀴즈</b><span>되새기고 기억하기</span></div><small>6</small></summary>
-       <div class="feats"><div class="feat"><b>말씀 모음</b><span>예수의 말씀 169개와 하나님의 말씀 54개를 여정 순서대로 모으고 '사랑', '빵' 같은 낱말로 찾습니다.</span></div><div class="feat"><b>사복음서 대조표</b><span>복음서별 기록 장면 수와 네 복음서 공통 장면을 표 하나로 봅니다.</span></div><div class="feat"><b>장면 퀴즈</b><span>장면마다 확인 퀴즈 하나로 걸어온 길을 되새깁니다 (예수 61문제 · 모세와 여호수아 40문제).</span></div><div class="feat"><b>나의 발자취</b><span>연 장면에는 발자취가, 맞힌 퀴즈에는 별이 찍히고 시기마다 도장이 모입니다. 기록은 여정마다 따로 남습니다.</span></div><div class="feat"><b>여정 마치기</b><span>마지막 장면까지 다 걸으면 걸어온 장면·장소·거리와 도장을 모은 완료 창이 뜹니다.</span></div><div class="feat"><b>온전히 걸은 길</b><span>못 푼 퀴즈만 모아 풀 수 있고, 다 맞히면 금빛 인장이 찍힙니다.</span></div></div>
+       <summary><i>5</i><div><b>말씀·대조표·퀴즈</b><span>되새기고 기억하기</span></div><small>7</small></summary>
+       <div class="feats"><div class="feat"><b>말씀 모음</b><span>예수의 말씀 169개와 하나님의 말씀 54개를 여정 순서대로 모으고 '사랑', '빵' 같은 낱말로 찾습니다.</span></div><div class="feat"><b>사복음서 대조표</b><span>복음서별 기록 장면 수와 네 복음서 공통 장면을 표 하나로 봅니다.</span></div><div class="feat"><b>바울 서신 편지 탭</b><span>바울 여정은 서신 13편을 그 편지를 쓴 장면과 자리에 이어 따로 모아 봅니다.</span></div><div class="feat"><b>장면 퀴즈</b><span>장면마다 확인 퀴즈 하나로 걸어온 길을 되새깁니다 (예수 61문제 · 모세와 여호수아 40문제).</span></div><div class="feat"><b>나의 발자취</b><span>연 장면에는 발자취가, 맞힌 퀴즈에는 별이 찍히고 시기마다 도장이 모입니다. 기록은 여정마다 따로 남습니다.</span></div><div class="feat"><b>여정 마치기</b><span>마지막 장면까지 다 걸으면 걸어온 장면·장소·거리와 도장을 모은 완료 창이 뜹니다.</span></div><div class="feat"><b>온전히 걸은 길</b><span>못 푼 퀴즈만 모아 풀 수 있고, 다 맞히면 금빛 인장이 찍힙니다.</span></div></div>
      </details><details class="stg" >
        <summary><i>6</i><div><b>어디서나</b><span>가입 없이, 8개 언어로</span></div><small>7</small></summary>
-       <div class="feats"><div class="feat"><b>여정 고르기</b><span>첫 화면의 '그 길 시리즈'에서 여정을 고르고, 여정마다 /jesus/ · /moses/ · /psalms/ · /proverbs/ · /goodnews/ 처럼 따로 주소가 있습니다.</span></div><div class="feat"><b>가입 없음</b><span>로그인 없이 바로 쓰고, 기록은 내 기기의 브라우저에만 남습니다.</span></div><div class="feat"><b>8개 언어</b><span>한국어, 영어, 스페인어, 포르투갈어, 프랑스어, 중국어, 인도네시아어, 일본어로 봅니다. 시편은 노래 가사가 중심이라 한국어로만 냅니다.</span></div><div class="feat"><b>휴대폰 시트</b><span>휴대폰에서는 장면 카드가 아래에서 올라오는 시트가 되어 지도와 무대를 크게 봅니다.</span></div><div class="feat"><b>홈 화면 설치</b><span>홈 화면에 추가해 앱처럼 엽니다.</span></div><div class="feat"><b>묻고 답하기</b><span>왜 만들었는지, 3D 무대를 왜 이렇게 그렸는지, 어떻게 쓰면 좋은지를 언어별로 정리했습니다.</span></div><div class="feat"><b>여정마다 설치</b><span>홈 화면 아이콘과 앱 이름이 여정의 색으로 따로 설치됩니다.</span></div></div>
+       <div class="feats"><div class="feat"><b>여정 고르기</b><span>첫 화면의 '그 길 시리즈'에서 여정을 고르고, 여정마다 /jesus/ · /moses/ · /david/ · /kings/ · /paul/ · /psalms/ · /proverbs/ · /goodnews/ 처럼 따로 주소가 있습니다.</span></div><div class="feat"><b>가입 없음</b><span>로그인 없이 바로 쓰고, 기록은 내 기기의 브라우저에만 남습니다.</span></div><div class="feat"><b>8개 언어</b><span>한국어, 영어, 스페인어, 포르투갈어, 프랑스어, 중국어, 인도네시아어, 일본어로 봅니다. 시편은 노래 가사가 중심이라 한국어로만 냅니다.</span></div><div class="feat"><b>휴대폰 시트</b><span>휴대폰에서는 장면 카드가 아래에서 올라오는 시트가 되어 지도와 무대를 크게 봅니다.</span></div><div class="feat"><b>홈 화면 설치</b><span>홈 화면에 추가해 앱처럼 엽니다.</span></div><div class="feat"><b>묻고 답하기</b><span>왜 만들었는지, 3D 무대를 왜 이렇게 그렸는지, 어떻게 쓰면 좋은지를 언어별로 정리했습니다.</span></div><div class="feat"><b>여정마다 설치</b><span>홈 화면 아이콘과 앱 이름이 여정의 색으로 따로 설치됩니다.</span></div></div>
      </details></div>
      
      <div class="meta2">
-       <div><h4>이런 분들을 위해</h4><p>성경의 큰 줄기를 지도와 순서로 잡고 싶은 성도, 신약과 구약을 가르치는 교회학교 교사와 소그룹 인도자, 가정 예배, 출퇴근길에 듣고 싶은 분</p></div>
+       <div><h4>이런 분들을 위해</h4><p>성경의 큰 줄기를 지도와 순서로 잡고 싶은 성도, 신약과 구약을 가르치는 교회학교 교사와 소그룹 인도자, 가정 예배, 처음 복음을 듣는 분, 출퇴근길에 듣고 싶은 분</p></div>
        <div><h4>기술 스택</h4><div class="chips"><span>three.js 3D</span><span>실제 고도 자료 지형</span><span>녹음 낭독·배경음악</span><span>8개 언어</span><span>Firebase Hosting</span></div></div>
      </div>
      <div class="wide"><h4>데스크톱 화면</h4><div class="browser"><img src="/shots/theway-d.png" alt="그 길 — 성경을 걷는 3D 지도 여정 웹 화면"></div></div>

diff --git a/public/data.js b/public/data.js
@@ -3597,8 +3597,8 @@ window.PROJECTS=[
   "url": "https://the-way-jesus.web.app",
   "shot": "theway",
   "frame": "browser",
-  "tagline": "지도 위에서 걷는 성경의 길. 예수의 발자취, 모세와 여호수아, 시편, 잠언, GoodNews(복음) 다섯 여정과 '왜 기독교인가' 단원이 나왔습니다",
-  "overview": "그 길은 성경의 이야기를 일어난 때와 장소의 순서로 엮어, 지도 위를 걸으며 만나게 하는 여정 시리즈입니다. 장면을 옮길 때마다 실제 지형 위를 걸어가며 거리와 걸린 날수를 보여 주고, 도착하면 그 자리에 미니어처 3D 무대가 서서 낭독에 맞춰 인물이 움직입니다. 첫 여정 '예수의 발자취'는 사복음서를 엮어 탄생부터 승천까지 61개 장면을, '모세와 여호수아'는 애굽의 종살이에서 약속의 땅까지 40개 장면을 걷습니다. '잠언'은 지도 대신 솔로몬 때 예루살렘의 거리를 사람 눈높이로 걸으며 아버지가 아들에게 들려주는 하루 8장면과 '하루 한 장 31일 잠언'을, '시편'은 노래가 태어난 자리를 따라 62편을 걸으며 가사를 크게 띄우고 노래를 한 편씩 더해 가는 중입니다. 처음 만나는 분께는 네 장면으로 듣는 'GoodNews(복음)'와, 여러 종교를 견주며 그림과 도표로 풀어 쓴 '왜 기독교인가' 단원을 둡니다. 모두 같은 엔진으로 만들어 가입 없이 바로 쓰고 대부분 8개 언어로 볼 수 있으며(시편은 한국어), 다윗·열왕기·바울 여정을 이어서 준비하고 있습니다.",
+  "tagline": "지도 위에서 걷는 성경의 길. 예수, 모세와 여호수아, 다윗, 열왕기, 바울, 시편, 잠언, GoodNews(복음) 여덟 여정과 '왜 기독교인가' 단원을 걷습니다",
+  "overview": "그 길은 성경의 이야기를 일어난 때와 장소의 순서로 엮어, 지도 위를 걸으며 만나게 하는 여정 시리즈입니다. 장면을 옮길 때마다 실제 지형 위를 걸어가며 거리와 걸린 날수를 보여 주고, 도착하면 그 자리에 미니어처 3D 무대가 서서 낭독에 맞춰 인물이 움직입니다. 지도에는 시대마다 누가 그 땅을 다스렸는지 영역이 옅게 깔리고 장면이 넘어가면 함께 바뀝니다. 사복음서로 걷는 '예수'(61장면), 애굽에서 약속의 땅까지 '모세와 여호수아'(40), 베들레헴의 목동에서 왕이 된 '다윗'(39), 선지자를 따라 걷는 두 왕국 '열왕기'(41), 다메섹 길에서 로마까지 서신 13편을 잇는 '바울'(42)이 지도 위 여정입니다. '시편'은 노래가 태어난 자리를 따라 62편을 걸으며 가사를 크게 띄우고 노래를 한 편씩 더해 가는 중이고, '잠언'은 솔로몬 때 예루살렘의 거리를 사람 눈높이로 걷는 하루 8장면과 '하루 한 장 31일 잠언'입니다. 처음 만나는 분께는 네 장면으로 듣는 'GoodNews(복음)'와, 여러 종교를 견주며 그림과 도표로 풀어 쓴 '왜 기독교인가' 단원을 둡니다. 모두 같은 엔진으로 만들어 가입 없이 바로 쓰고, 시편을 뺀 모든 여정을 8개 언어로 볼 수 있습니다.",
   "downloads": {
    "title": "소책자 「왜 기독교인가」 내려받기",
    "lede": "그 길의 '왜 기독교인가' 단원을 A5 소책자(36쪽)로 엮었습니다. 휴대폰으로 보내거나 인쇄해서 나눠 주세요.",
@@ -3617,8 +3617,8 @@ window.PROJECTS=[
   },
   "flagship": [
    {
-    "title": "성경을 걷는 여정 시리즈",
-    "desc": "예수의 발자취(61장면), 모세와 여호수아(40), 시편(62편), 잠언(8장면 + 31일), GoodNews(4장면)가 나왔고 다윗·열왕기·바울로 이어집니다. 첫 화면에서 여정을 고릅니다.",
+    "title": "성경을 걷는 여덟 여정",
+    "desc": "예수(61장면), 모세와 여호수아(40), 다윗(39), 열왕기(41), 바울(42), 시편(62편), 잠언(8장면 + 31일), GoodNews(4)가 모두 열렸습니다. 첫 화면에서 여정을 고릅니다.",
     "hot": true
    },
    {
@@ -3734,6 +3734,10 @@ window.PROJECTS=[
      {
       "title": "애굽 표지",
       "desc": "애굽으로 피하는 장면에는 기자 피라미드, 파로스 등대, 헬리오폴리스를 세웠습니다."
+     },
+     {
+      "title": "시대별 영역",
+      "desc": "시대마다 누가 그 땅을 다스렸는지 지도에 옅은 색과 점선으로 깔고, 장면이 넘어가 시대가 바뀌면 서서히 바꿉니다."
      }
     ]
    },
@@ -3780,6 +3784,10 @@ window.PROJECTS=[
       "desc": "복음서별 기록 장면 수와 네 복음서 공통 장면을 표 하나로 봅니다."
      },
      {
+      "title": "바울 서신 편지 탭",
+      "desc": "바울 여정은 서신 13편을 그 편지를 쓴 장면과 자리에 이어 따로 모아 봅니다."
+     },
+     {
       "title": "장면 퀴즈",
       "desc": "장면마다 확인 퀴즈 하나로 걸어온 길을 되새깁니다 (예수 61문제 · 모세와 여호수아 40문제)."
      },
@@ -3803,7 +3811,7 @@ window.PROJECTS=[
     "items": [
      {
       "title": "여정 고르기",
-      "desc": "첫 화면의 '그 길 시리즈'에서 여정을 고르고, 여정마다 /jesus/ · /moses/ · /psalms/ · /proverbs/ · /goodnews/ 처럼 따로 주소가 있습니다."
+      "desc": "첫 화면의 '그 길 시리즈'에서 여정을 고르고, 여정마다 /jesus/ · /moses/ · /david/ · /kings/ · /paul/ · /psalms/ · /proverbs/ · /goodnews/ 처럼 따로 주소가 있습니다."
      },
      {
       "title": "가입 없음",
@@ -3835,16 +3843,16 @@ window.PROJECTS=[
   "roles": [],
   "numbers": [
    {
-    "value": "5편",
+    "value": "8편",
     "label": "공개된 여정 + '왜 기독교인가' 단원"
    },
    {
-    "value": "175개",
-    "label": "장면 (예수 61 · 모세 40 · 시편 62 · 잠언 8 · 복음 4)"
+    "value": "297개",
+    "label": "장면 (예수 61 · 모세 40 · 다윗 39 · 열왕기 41 · 바울 42 · 시편 62 · 잠언 8 · 복음 4)"
    },
    {
-    "value": "31일",
-    "label": "하루 한 장 잠언"
+    "value": "13편",
+    "label": "바울 여정의 편지 탭에 잇는 바울 서신"
    },
    {
     "value": "8개",
@@ -3863,6 +3871,22 @@ window.PROJECTS=[
    {
     "src": "gallery/theway-moses-phones.jpg",
     "cap": "모세와 여호수아: 바다가 갈라지다 · 산에 내려오신 하나님 · 라합의 붉은 줄 · 느보산"
+   },
+   {
+    "src": "gallery/theway-dkp-phones.jpg",
+    "cap": "다윗 · 열왕기 · 바울: 놉의 진설병과 골리앗의 칼 · 손만 한 구름 · 강가의 기도처, 루디아"
+   },
+   {
+    "src": "gallery/theway-david.jpg",
+    "cap": "다윗: 엔게디 굴의 옷자락"
+   },
+   {
+    "src": "gallery/theway-kings.jpg",
+    "cap": "열왕기: 도단을 둘러싼 불말과 불병거 (시대별 영역이 지도에 깔림)"
+   },
+   {
+    "src": "gallery/theway-paul.jpg",
+    "cap": "바울: 두 번째 여행, 빌립보 강가의 기도처"
    },
    {
     "src": "gallery/theway-proverbs.jpg",
@@ -3893,20 +3917,8 @@ window.PROJECTS=[
     "cap": "3D 지형: 여리고와 요단 골짜기"
    },
    {
-    "src": "gallery/theway-moses-3d.jpg",
-    "cap": "3D 지형: 시내산과 광야"
-   },
-   {
-    "src": "gallery/theway-moses-nebo.jpg",
-    "cap": "모세와 여호수아: 느보산에서 바라본 약속의 땅"
-   },
-   {
     "src": "gallery/theway-harmony.jpg",
     "cap": "예수의 발자취: 사복음서 대조표"
-   },
-   {
-    "src": "gallery/theway-words.jpg",
-    "cap": "그분의 말씀: 말씀 모음과 검색"
    }
   ],
   "galleryWide": true,
@@ -3916,9 +3928,9 @@ window.PROJECTS=[
    "모바일"
   ],
   "next": {
-   "badge": "시리즈 · 다음 여정 후원 모집",
+   "badge": "여덟 여정 공개",
    "title": "그 길 시리즈",
-   "lede": "같은 엔진으로 성경의 여정을 하나씩 더해 갑니다. 공개된 여정은 바로 걸을 수 있고, 준비 중인 여정은 후원을 기다립니다. 한 여정을 후원해 주신 교회와 단체는 그 여정의 첫 화면과 마지막 화면에 함께 기록됩니다.",
+   "lede": "같은 엔진으로 성경의 여정을 하나씩 더해 왔고, 지금 여덟 여정과 한 단원이 모두 열려 있습니다. 누르면 그 여정을 바로 걷습니다. 앞으로의 여정을 후원해 주실 교회와 단체는 문의해 주세요. 후원한 여정의 첫 화면과 마지막 화면에 함께 기록됩니다.",
    "items": [
     {
      "title": "예수의 발자취",
@@ -3929,6 +3941,21 @@ window.PROJECTS=[
      "title": "모세와 여호수아",
      "desc": "애굽에서 광야를 지나 가나안까지 40장면",
      "url": "https://the-way-jesus.web.app/moses/"
+    },
+    {
+     "title": "다윗",
+     "desc": "베들레헴의 목동에서 예루살렘의 왕으로 39장면",
+     "url": "https://the-way-jesus.web.app/david/"
+    },
+    {
+     "title": "열왕기",
+     "desc": "선지자를 따라 걷는 두 왕국 41장면",
+     "url": "https://the-way-jesus.web.app/kings/"
+    },
+    {
+     "title": "바울",
+     "desc": "다메섹 길에서 로마까지, 복음이 땅끝까지 42장면과 서신 13편",
+     "url": "https://the-way-jesus.web.app/paul/"
     },
     {
      "title": "시편",
@@ -3951,22 +3978,10 @@ window.PROJECTS=[
      "desc": "올라가는 종교, 내려오신 하나님, 그리고 교회. 그림과 도표로 읽는 단원",
      "url": "https://the-way-jesus.web.app/why.html",
      "go": "읽어 보기"
-    },
-    {
-     "title": "다윗",
-     "desc": "베들레헴의 목동에서 예루살렘의 왕으로"
-    },
-    {
-     "title": "열왕기 3D",
-     "desc": "나뉜 두 왕국을 지도 위 여정으로"
-    },
-    {
-     "title": "바울",
-     "desc": "예루살렘에서 땅끝까지, 선교 여행"
     }
    ]
   },
-  "audience": "성경의 큰 줄기를 지도와 순서로 잡고 싶은 성도, 신약과 구약을 가르치는 교회학교 교사와 소그룹 인도자, 가정 예배, 출퇴근길에 듣고 싶은 분",
+  "audience": "성경의 큰 줄기를 지도와 순서로 잡고 싶은 성도, 신약과 구약을 가르치는 교회학교 교사와 소그룹 인도자, 가정 예배, 처음 복음을 듣는 분, 출퇴근길에 듣고 싶은 분",
   "tech": [
    "three.js 3D",
    "실제 고도 자료 지형",
